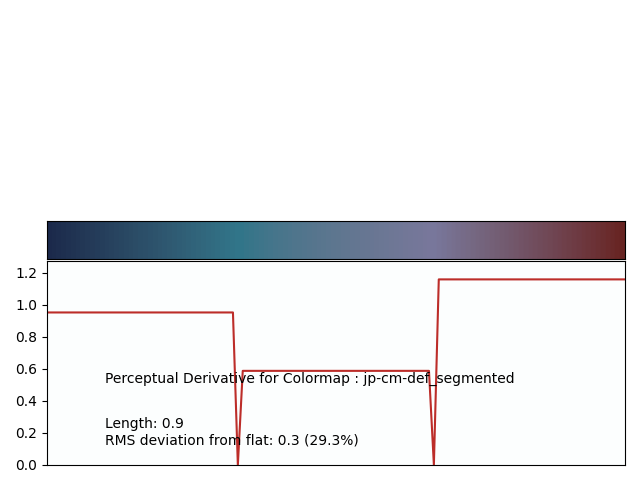
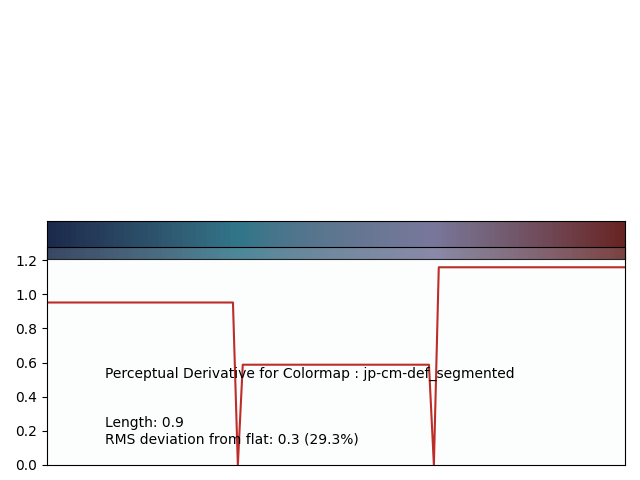
update readme

diff --git a/gen/gen.py b/gen/gen.py
@@ -109,7 +109,7 @@ def calculatePD(gradient, RGB, name):
     ax.get_xaxis().set_visible(False)
     ax.margins(0.0)
     ax.set_facecolor(aijiro_alph)
-    fig.tight_layout(h_pad = 3)
+    fig.tight_layout()
     return fig
 
 def gen_cmaps(cmaps,segmented=False):
